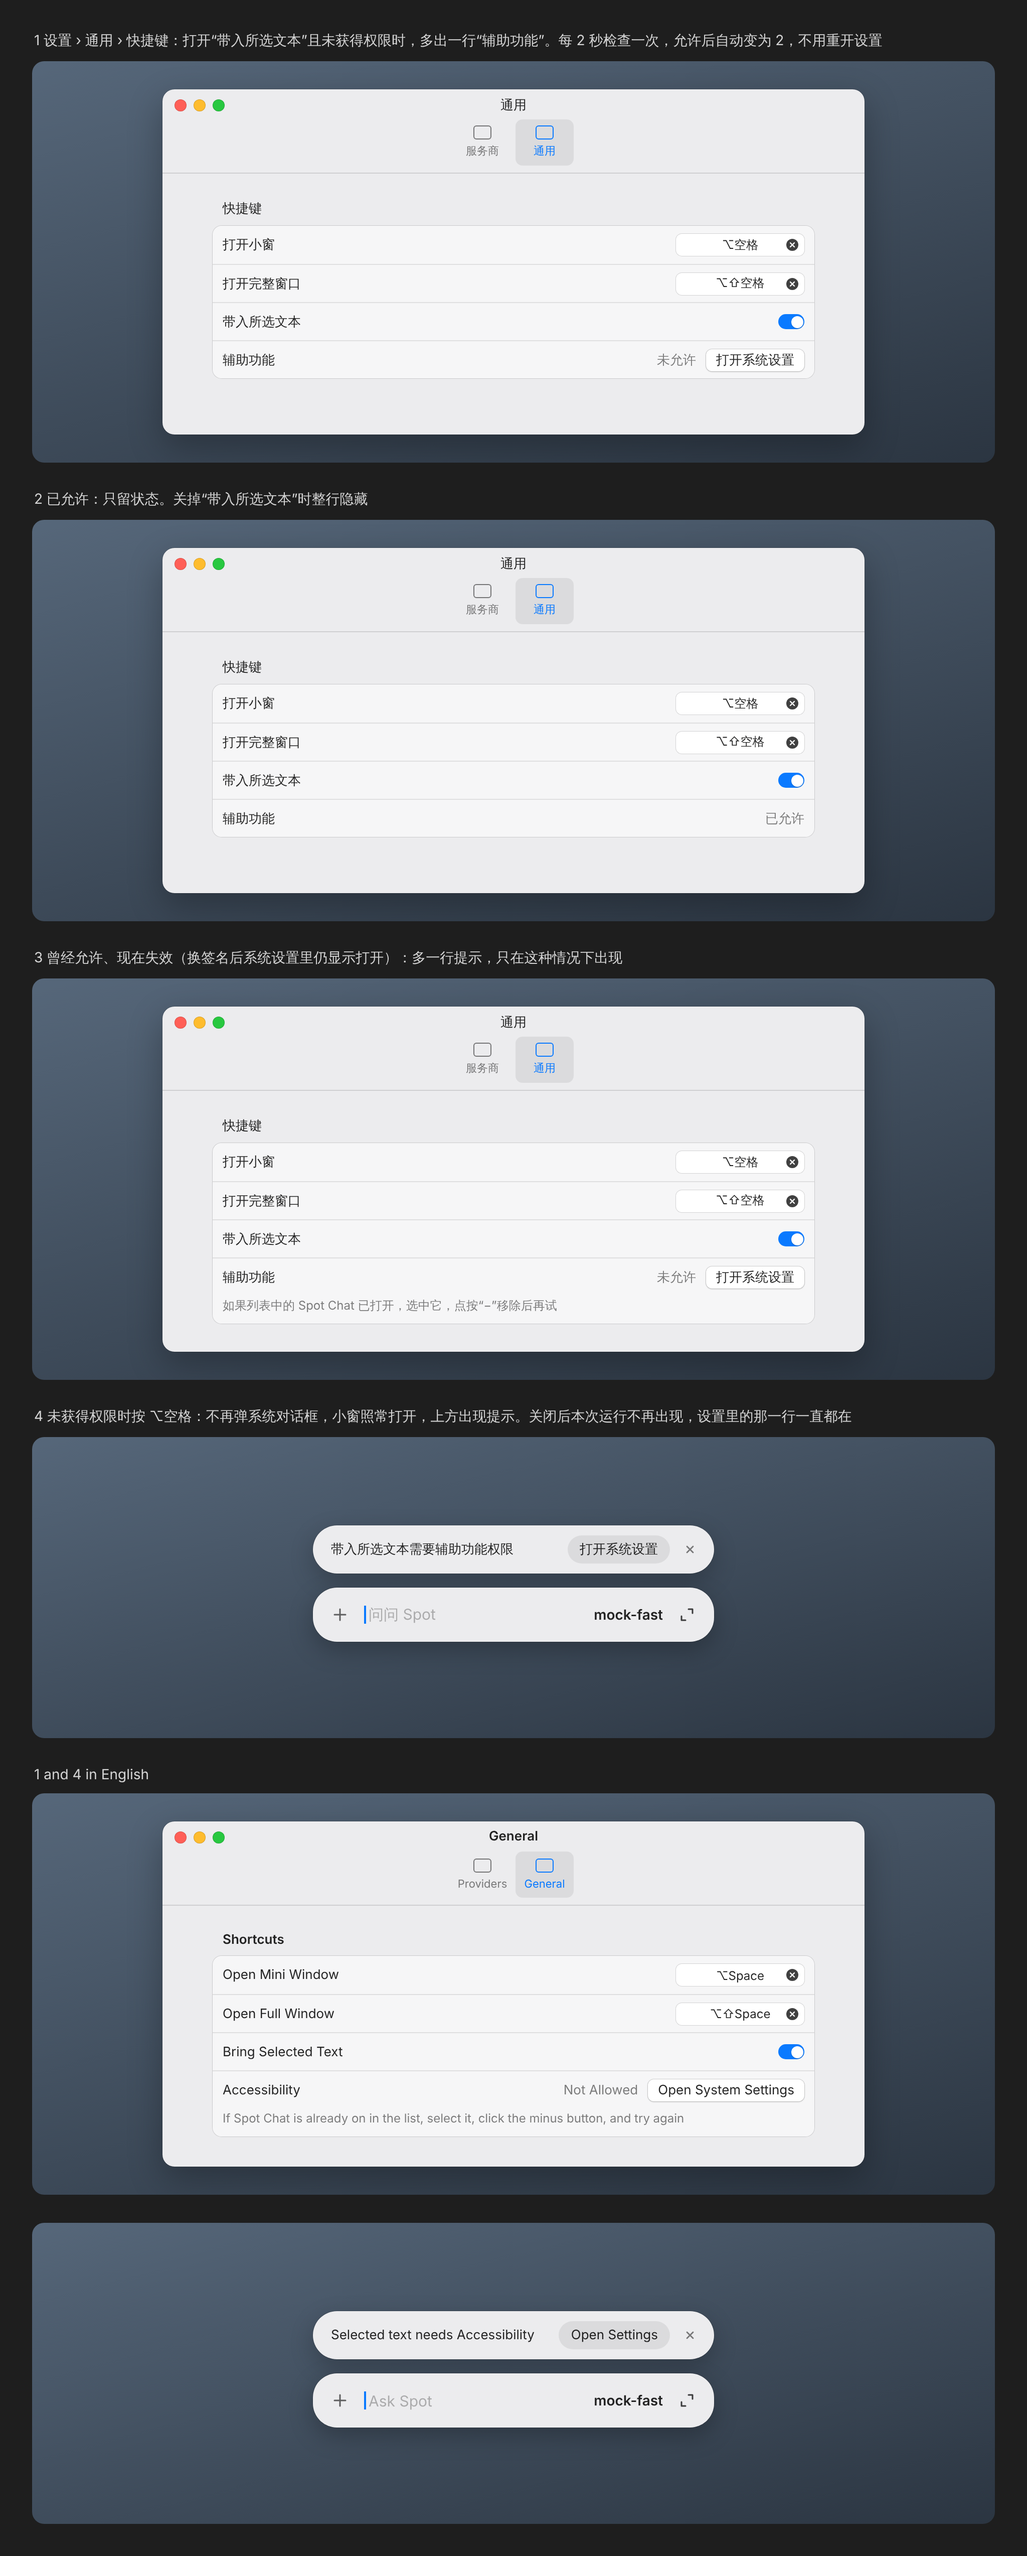
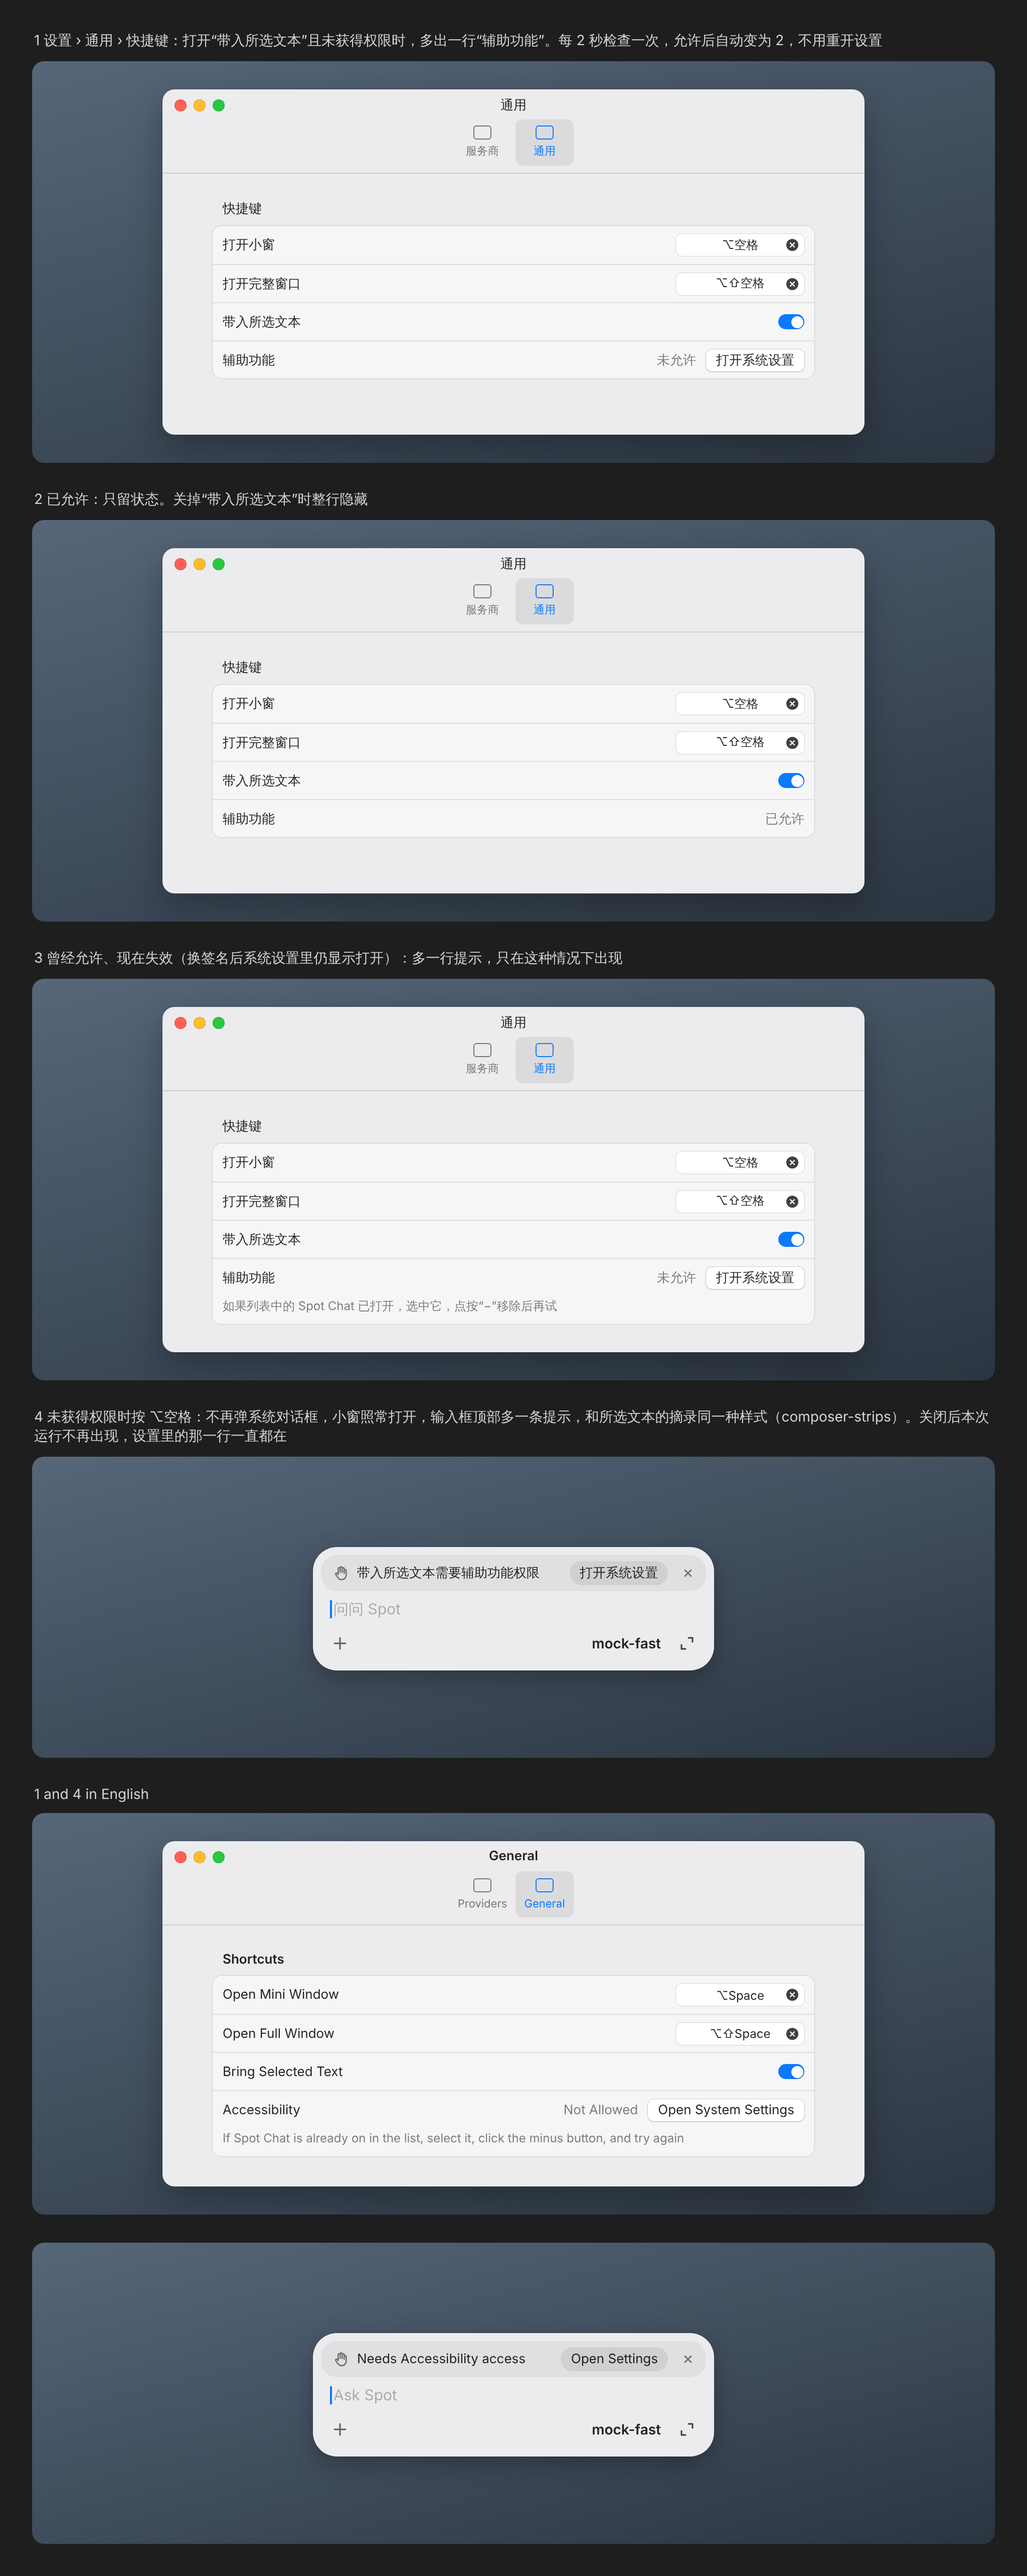
Match the Accessibility and selected text mockups to the strips inside the input [skip ci]
Claude-Session: https://claude.ai/code/session_01REvHc4SjjqMcxY8UXeyBUw

diff --git a/docs/design/selection-excerpt.html b/docs/design/selection-excerpt.html
@@ -44,6 +44,12 @@ body{margin:0;background:#1e1e1e;font-family:-apple-system,"SF Pro Text","PingFa
 .mark:after{content:"";position:absolute;right:2.5px;top:2.5px;width:3.5px;height:3.5px;border-radius:2px;background:#fff}
 .card .composer{position:absolute;left:8px;right:8px;bottom:8px;width:auto;box-shadow:var(--rim);padding:0}
 .card .composer .bar{height:54px}
+.excerpt.open{height:auto;align-items:flex-start;padding:9px 6px 10px 12px}
+.excerpt.open svg{margin-top:2px}
+.excerpt.open .full{flex:1;min-width:0;line-height:1.55;max-height:122px;overflow:hidden;-webkit-mask-image:linear-gradient(#000 80%,transparent)}
+.excerpt.open .x{margin-top:-3px}
+.sent .ref.open{max-width:300px;align-items:flex-start;background:rgba(0,0,0,.04);border-radius:12px;padding:8px 10px;line-height:1.5}
+.sent .ref.open svg{margin-top:2px}
 .en{font-family:-apple-system,"SF Pro Text","Inter",sans-serif}
 </style></head><body>
 
@@ -79,22 +85,23 @@ body{margin:0;background:#1e1e1e;font-family:-apple-system,"SF Pro Text","PingFa
 </div>
 
 <div>
-  <p class="cap">2  点按摘录：在上方弹出完整文本，可以滚动和拷贝。点按 ×、按 Esc 或点按别处关闭</p>
-  <div class="stage"><div class="pair" style="flex-direction:column;align-items:center;gap:10px">
-    <div class="pop">
-      <div class="t"><span>所选文本</span><span class="x" style="flex:none;width:28px;height:28px;border-radius:14px;background:rgba(0,0,0,.05);margin:-6px -6px -6px 0"><svg width="10" height="10"><use href="#xmark"/></svg></span></div>
-      <blockquote>线粒体是细胞的动力工厂，通过有氧呼吸把葡萄糖中的化学能转化为 ATP，供细胞的各项活动使用。线粒体有自己的 DNA，可以独立复制，这也是内共生学说的重要证据之一：它很可能起源于被古代真核细胞吞入的需氧细菌。</blockquote>
-    </div>
-    <div class="composer">
-      <div class="excerpt hover"><svg width="16" height="16" style="flex:none"><use href="#ref"/></svg><span class="q">“线粒体是细胞的动力工厂，通过有氧呼吸把葡萄糖中的化学能转化为 ATP，供细胞的各项活动使用”</span><span class="x"><svg width="10" height="10"><use href="#xmark"/></svg></span></div>
+  <p class="cap">2  点按摘录：在原处展开，最多显示约 5 行，更长可以滚动，可以选中拷贝；再点按收起</p>
+  <div class="stage"><div class="pair">
+    <div><div class="composer">
+      <div class="excerpt"><svg width="16" height="16" style="flex:none"><use href="#ref"/></svg><span class="q">“线粒体是细胞的动力工厂，通过有氧呼吸把葡萄糖中的化学能转化为 ATP，供细胞的各项活动使用”</span><span class="x"><svg width="10" height="10"><use href="#xmark"/></svg></span></div>
       <div class="text">解释一下<span class="caret"></span></div>
       <div class="bar"><span class="icon"><svg width="16" height="16"><use href="#plus"/></svg></span><span class="sp"></span><span class="model">mock-fast</span><span class="icon"><svg width="18" height="18"><use href="#send"/></svg></span><span class="icon"><svg width="16" height="16"><use href="#expand"/></svg></span></div>
-    </div>
+    </div><div class="label">收起</div></div>
+    <div><div class="composer">
+      <div class="excerpt open"><svg width="16" height="16" style="flex:none"><use href="#ref"/></svg><span class="full">“线粒体是细胞的动力工厂，通过有氧呼吸把葡萄糖中的化学能转化为 ATP，供细胞的各项活动使用。线粒体有自己的 DNA，可以独立复制，这也是内共生学说的重要证据之一：它很可能起源于被古代真核细胞吞入的需氧细菌。线粒体的数量因细胞类型而异”</span><span class="x"><svg width="10" height="10"><use href="#xmark"/></svg></span></div>
+      <div class="text">解释一下<span class="caret"></span></div>
+      <div class="bar"><span class="icon"><svg width="16" height="16"><use href="#plus"/></svg></span><span class="sp"></span><span class="model">mock-fast</span><span class="icon"><svg width="18" height="18"><use href="#send"/></svg></span><span class="icon"><svg width="16" height="16"><use href="#expand"/></svg></span></div>
+    </div><div class="label">展开</div></div>
   </div></div>
 </div>
 
 <div>
-  <p class="cap">3  发送后：问题上方留一行摘录，点按同样弹出完整文本。模型收到的仍是引用加问题，和现在一样；完整窗口和历史记录里也这样显示</p>
+  <p class="cap">3  发送后：问题上方留一行摘录，点按同样在原处展开。模型收到的仍是引用加问题，和现在一样；完整窗口和历史记录里也这样显示</p>
   <div class="stage"><div class="pair">
     <div class="card">
       <span class="circle" style="left:12px"><svg width="10" height="10"><use href="#xmark"/></svg></span>
@@ -114,16 +121,17 @@ body{margin:0;background:#1e1e1e;font-family:-apple-system,"SF Pro Text","PingFa
 
 <div class="en">
   <p class="cap">1 and 2 in English</p>
-  <div class="stage"><div class="pair" style="flex-direction:column;align-items:center;gap:10px">
-    <div class="pop">
-      <div class="t"><span>Selected Text</span><span class="x" style="flex:none;width:28px;height:28px;border-radius:14px;background:rgba(0,0,0,.05);margin:-6px -6px -6px 0"><svg width="10" height="10"><use href="#xmark"/></svg></span></div>
-      <blockquote>The mitochondria is the powerhouse of the cell. Through aerobic respiration it turns the chemical energy in glucose into ATP, which powers the cell's work. Mitochondria carry their own DNA and divide on their own, one of the main pieces of evidence for endosymbiosis.</blockquote>
-    </div>
-    <div class="composer">
-      <div class="excerpt hover"><svg width="16" height="16" style="flex:none"><use href="#ref"/></svg><span class="q">“The mitochondria is the powerhouse of the cell. Through aerobic respiration it turns the chemical energy”</span><span class="x"><svg width="10" height="10"><use href="#xmark"/></svg></span></div>
+  <div class="stage"><div class="pair">
+    <div><div class="composer">
+      <div class="excerpt"><svg width="16" height="16" style="flex:none"><use href="#ref"/></svg><span class="q">“The mitochondria is the powerhouse of the cell. Through aerobic respiration it turns the chemical energy”</span><span class="x"><svg width="10" height="10"><use href="#xmark"/></svg></span></div>
       <div class="text">Explain this<span class="caret"></span></div>
       <div class="bar"><span class="icon"><svg width="16" height="16"><use href="#plus"/></svg></span><span class="sp"></span><span class="model">mock-fast</span><span class="icon"><svg width="18" height="18"><use href="#send"/></svg></span><span class="icon"><svg width="16" height="16"><use href="#expand"/></svg></span></div>
-    </div>
+    </div><div class="label"></div></div>
+    <div><div class="composer">
+      <div class="excerpt open"><svg width="16" height="16" style="flex:none"><use href="#ref"/></svg><span class="full">“The mitochondria is the powerhouse of the cell. Through aerobic respiration it turns the chemical energy in glucose into ATP, which powers the cell's work. Mitochondria carry their own DNA and divide on their own, one of the main pieces of evidence for endosymbiosis.”</span><span class="x"><svg width="10" height="10"><use href="#xmark"/></svg></span></div>
+      <div class="text">Explain this<span class="caret"></span></div>
+      <div class="bar"><span class="icon"><svg width="16" height="16"><use href="#plus"/></svg></span><span class="sp"></span><span class="model">mock-fast</span><span class="icon"><svg width="18" height="18"><use href="#send"/></svg></span><span class="icon"><svg width="16" height="16"><use href="#expand"/></svg></span></div>
+    </div><div class="label"></div></div>
   </div></div>
 </div>
 </body></html>

diff --git a/docs/design/accessibility-guide.html b/docs/design/accessibility-guide.html
@@ -43,6 +43,17 @@ body{margin:0;background:#1e1e1e;font-family:-apple-system,"SF Pro Text","PingFa
 .notice .pill{height:28px;padding:0 12px;border-radius:14px;background:rgba(0,0,0,.07);display:inline-flex;align-items:center;font-size:13px}
 .notice .t{flex:1}
 .close{width:28px;height:28px;border-radius:14px;display:flex;align-items:center;justify-content:center}
+/* the input, with the notice as a strip at its top (docs/design/composer-strips.html) */
+.cw{position:absolute;left:280px;width:400px;border-radius:24px;background:#ececee;box-shadow:0 8px 24px rgba(0,0,0,.25),var(--rim);padding:8px 0 13px;font-size:15px}
+.cw .strip{margin:0 8px;height:36px;border-radius:16px;background:rgba(0,0,0,.05);display:flex;align-items:center;gap:8px;padding:0 6px 0 12px;font-size:13px;white-space:nowrap}
+.cw .strip .t{flex:1}
+.cw .pill{height:24px;padding:0 10px;border-radius:12px;background:rgba(0,0,0,.07);display:inline-flex;align-items:center}
+.cw .x{width:24px;height:24px;display:flex;align-items:center;justify-content:center;flex:none}
+.cw .text{padding:8px 17px 10px;line-height:20px;color:var(--ter);display:flex;align-items:center}
+.cw .text:before{content:"";width:1.5px;height:18px;background:var(--accent);margin-right:2px}
+.cw .bar{display:flex;align-items:center;padding:0 13px;gap:6px}
+.cw .bar .sp{flex:1}
+.cw .model{font-weight:600;font-size:14px;margin-right:6px}
 .en{font-family:-apple-system,"SF Pro Text","Inter",sans-serif}
 </style></head><body>
 
@@ -50,6 +61,7 @@ body{margin:0;background:#1e1e1e;font-family:-apple-system,"SF Pro Text","PingFa
 <svg width="0" height="0" style="position:absolute">
   <symbol id="plus" viewBox="0 0 16 16"><path d="M8 2.5v11M2.5 8h11" stroke="rgba(0,0,0,.6)" stroke-width="1.5" stroke-linecap="round"/></symbol>
   <symbol id="expand" viewBox="0 0 16 16"><path d="M9.5 2.5h4v4M6.5 13.5h-4v-4" fill="none" stroke="rgba(0,0,0,.75)" stroke-width="1.5" stroke-linecap="round" stroke-linejoin="round"/></symbol>
+  <symbol id="hand" viewBox="0 0 16 16"><path d="M5.2 8.6V3.6a1 1 0 0 1 2 0v3.6M7.2 6.8V2.8a1 1 0 0 1 2 0v4.4M9.2 7V3.6a1 1 0 0 1 2 0v4.6M11.2 8.2V5.6a1 1 0 0 1 2 0v4c0 2.8-1.9 4.9-4.6 4.9-1.8 0-2.9-.8-3.8-2.1L2.9 9.6a1 1 0 0 1 1.6-1.2l.7.9" fill="none" stroke="rgba(0,0,0,.5)" stroke-width="1.3" stroke-linecap="round" stroke-linejoin="round"/></symbol>
   <symbol id="xmark" viewBox="0 0 10 10"><path d="M2 2l6 6M8 2L2 8" stroke="rgba(0,0,0,.5)" stroke-width="1.4" stroke-linecap="round"/></symbol>
 </svg>
 
@@ -109,14 +121,12 @@ body{margin:0;background:#1e1e1e;font-family:-apple-system,"SF Pro Text","PingFa
 </div>
 
 <div>
-  <p class="cap">4  未获得权限时按 ⌥空格：不再弹系统对话框，小窗照常打开，上方出现提示。关闭后本次运行不再出现，设置里的那一行一直都在</p>
+  <p class="cap">4  未获得权限时按 ⌥空格：不再弹系统对话框，小窗照常打开，输入框顶部多一条提示，和所选文本的摘录同一种样式（composer-strips）。关闭后本次运行不再出现，设置里的那一行一直都在</p>
   <div class="stage mini">
-    <div class="notice" style="top:88px"><span class="t">带入所选文本需要辅助功能权限</span><span class="pill">打开系统设置</span><span class="close"><svg width="10" height="10"><use href="#xmark"/></svg></span></div>
-    <div class="capsule" style="top:150px">
-      <span class="icon"><svg width="16" height="16"><use href="#plus"/></svg></span>
-      <span class="ph">问问 Spot</span>
-      <span class="model">mock-fast</span>
-      <span class="icon"><svg width="16" height="16"><use href="#expand"/></svg></span>
+    <div class="cw" style="top:90px">
+      <div class="strip"><svg width="16" height="16" style="flex:none"><use href="#hand"/></svg><span class="t">带入所选文本需要辅助功能权限</span><span class="pill">打开系统设置</span><span class="x"><svg width="10" height="10"><use href="#xmark"/></svg></span></div>
+      <div class="text">问问 Spot</div>
+      <div class="bar"><span class="icon"><svg width="16" height="16"><use href="#plus"/></svg></span><span class="sp"></span><span class="model">mock-fast</span><span class="icon"><svg width="16" height="16"><use href="#expand"/></svg></span></div>
     </div>
   </div>
 </div>
@@ -138,12 +148,10 @@ body{margin:0;background:#1e1e1e;font-family:-apple-system,"SF Pro Text","PingFa
 </div>
 <div class="en">
   <div class="stage mini">
-    <div class="notice" style="top:88px"><span class="t">Selected text needs Accessibility</span><span class="pill">Open Settings</span><span class="close"><svg width="10" height="10"><use href="#xmark"/></svg></span></div>
-    <div class="capsule" style="top:150px">
-      <span class="icon"><svg width="16" height="16"><use href="#plus"/></svg></span>
-      <span class="ph">Ask Spot</span>
-      <span class="model">mock-fast</span>
-      <span class="icon"><svg width="16" height="16"><use href="#expand"/></svg></span>
+    <div class="cw" style="top:90px">
+      <div class="strip"><svg width="16" height="16" style="flex:none"><use href="#hand"/></svg><span class="t">Needs Accessibility access</span><span class="pill">Open Settings</span><span class="x"><svg width="10" height="10"><use href="#xmark"/></svg></span></div>
+      <div class="text">Ask Spot</div>
+      <div class="bar"><span class="icon"><svg width="16" height="16"><use href="#plus"/></svg></span><span class="sp"></span><span class="model">mock-fast</span><span class="icon"><svg width="16" height="16"><use href="#expand"/></svg></span></div>
     </div>
   </div>
 </div>
